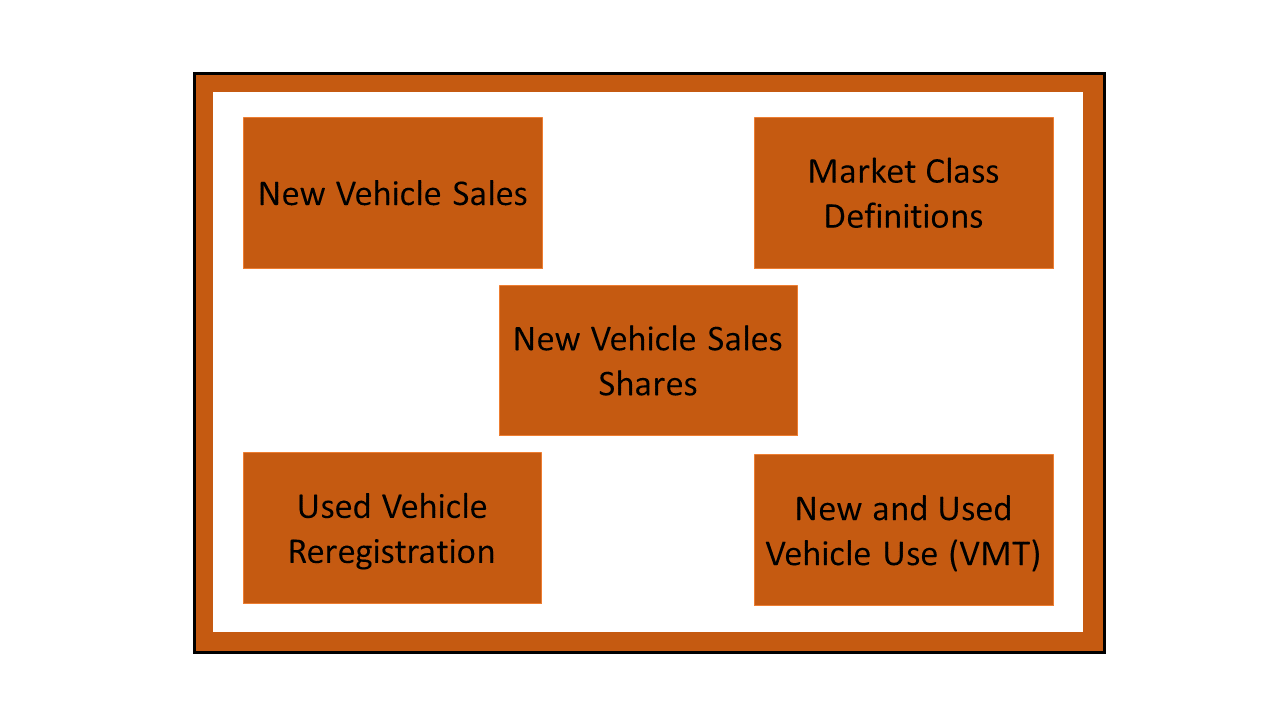
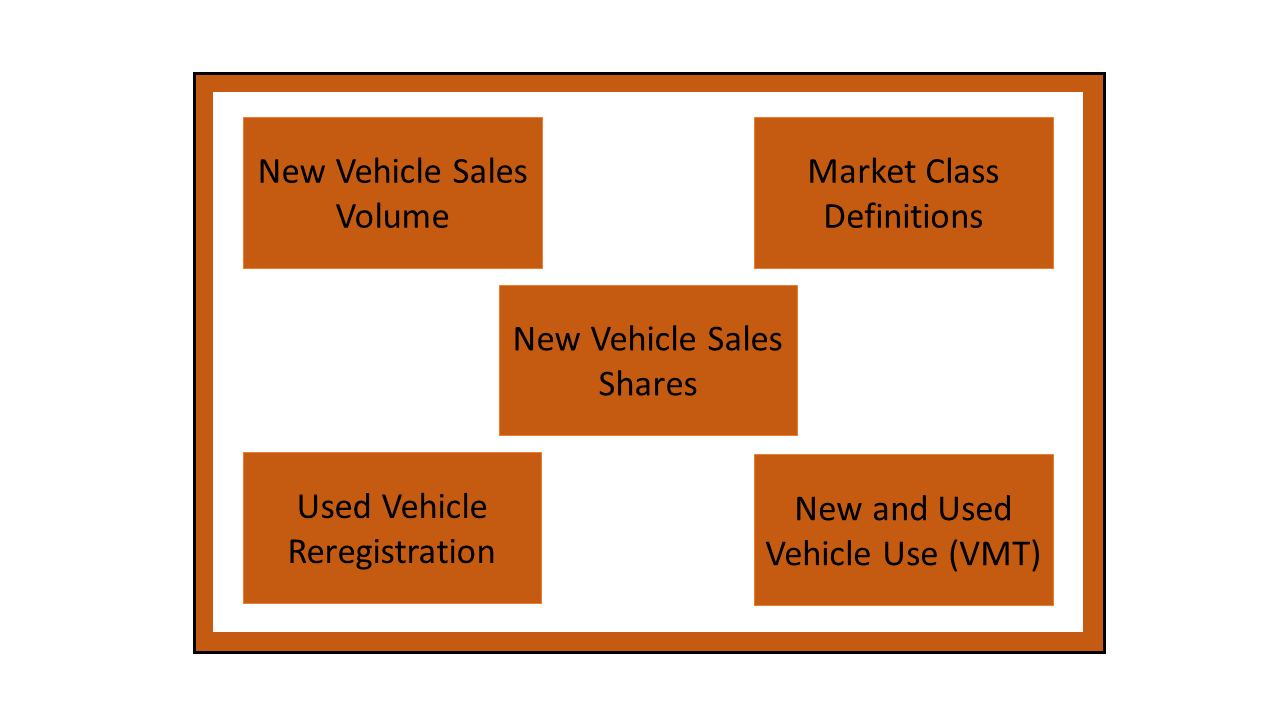
updates to market class documentation

Changed region(s): [[0.1875, 0.2139, 0.4062, 0.3361]]

diff --git a/doc/source/archalgo.rst b/doc/source/archalgo.rst
@@ -303,6 +303,20 @@ The Consumer Module’s purpose is to estimate how light duty vehicle ownership 
 
 Each of these five elements represents a user-definable submodule within the Consumer Module code. The code within each submodule may be updated by a user, or the submodule may be replaced with an alternative submodule. When a user updates or replaces a submodule, they must ensure that the submodule retains consistency with the other submodules within the Consumer Module, as well as with the rest of OMEGA. For example, if the market class submodule is changed from the demo analysis version, the sales share submodule must be updated as well.
 
+.. admonition:: Demo example: Consumer Module user-definable submodules
+
+    The user definable submodules in the demo analysis version of OMEGA are listed in the table below.
+
+    .. csv-table::
+        :widths: auto
+
+        **Element**, **Submodule**
+        Market class definitions, market_classes.py
+        New vehicle sales volume, sales_volume.py
+        New vehicle sales shares, sales_share.py
+        Used vehicle reregistration, reregistration_fixed_by_age.py
+        New and used vehicle use, annual_vmt_fixed_by_age.py
+
 The Consumer Module works in two phases: first, an iterative new vehicle phase, followed by a non-iterative stock and use phase. During the first phase, the Consumer Module and Producer Module iterate to achieve convergence on the estimates of new vehicles produced and demanded that meet the standards set in the Policy Module. The Producer Module sends a set of candidate vehicles, including their prices and attributes, to the Consumer Module to consider. The Consumer Module uses that set of candidate vehicles to estimate total new vehicles demanded and the shares of those new vehicles in the specified market classes, which are passed back to the Producer Module. If the estimates do not converge, a new set of candidate vehicles is sent to teh Consumer Module for consideration. Once convergence between the Producer and Consumer Module is achieved, the set of candidate vehicles are no longer considered candidates for consideration, but are the estimated new vehicle fleet, and the Consumer Module enters the second phase. In this phase, total vehicle stock (new and used vehicles and their attributes) and use (VMT) are estimated.
 
 **Inputs to the Consumer Module**
@@ -318,6 +332,10 @@ During the iterative first phase, the Consumer Module considers vehicle prices a
 Users can define market classes; in doing so, the user must ensure that all other inputs and user-defined submodules (for example, with respect to stock and use estimation) within the Consumer Module are defined consistently. The designation of market classes can be used to reflect market heterogeneity in purchasing behavior or vehicle use based on specific vehicle attributes. In addition, the user can categorize market classes as 'responsive,' where the shares of total vehicles attributed to those market classes change in response to user-defined endogenous inputs (like relative costs), or 'nonresponsive,' where the shares of total vehicles attributed to those market classes do not change with the policy being analyzed.
 
 Market classes can be defined using vehicle attributes and inputs from the analysis context. In defining market classes, the user must ensure they are defined consistently with the modeling in the sales share submodule. For example, if the sales share submodule is defined as estimating shares of vehicles in a set of fuel type categories, those fuel type categories must be defined within the market class submodule.
+
+.. sidebar:: Independent market share assumption
+
+    The assumptions of independence in parent market class categories is consistent with the assumption of independence of irrelevant alternatives (IIA) commonly used in nested choice models, such as GCAM-USA.
 
 Before the Consumer Module can estimate sales and or shares responses, all vehicles must be categorized into their market classes. This categorization is defined as a series of nested market category levels. The user can define any number of market classes, or levels, as well as the hierarchy of the levels. In defining the hierarchy, it is important to note that OMEGA assumes that the sales share estimates within a parent category are independent of sales share estimates outside the parent category. This means that changing the available market classes outside the parent category will not change the sales share estimates within the parent category.
 
@@ -386,7 +404,7 @@ If a user adopts the demo analysis method of estimating sales volumes using an e
 
 **Sales shares**
 
-The new vehicles sold are categorized into the user-defined market classes using estimates of sales shares. As mentioned above, those market classes can be nonresponsive or responsive to the policy being analyzed. Nonresponsive vehicle shares do not change with updated candidate vehicle sets or across policy alternatives. Though not responsive to endogenous inputs, the nonresponsive sales shares do not have to be constant. For example, they may be provided as a set of values for different points in time if the shares are expected to change exogenously over time.
+The new vehicles sold are categorized into the user-defined market classes using estimates of sales shares. As mentioned above, those market classes can be nonresponsive or responsive to the policy being analyzed. Nonresponsive vehicle shares do not change with updated candidate vehicle sets or across policy alternatives. Though not responsive to endogenous inputs, the nonresponsive sales shares do not have to be constant. For example, they may be provided as a set of values for different points in time if the shares are expected to change exogenously over time. In addition, users can define sales shares to explicitly consider consumer heterogeneity by defining separate sales share estimates for different consumer groups. For example, sales share responses can differ between rural and urban consumers. If users identify heterogenous consumer groups with separate sales share responses, the analysis context must include the approproate inputs. For example, the proportion of the vehicle buying population in urban and rural areas for each year being analyzed within the model.
 
 .. admonition:: Demo example: Nonresponsive market share estimates
 
@@ -425,7 +443,13 @@ After convergence with respect to the sales and shares of new vehicles is achiev
 
 **Vehicle stock**
 
-To estimate vehicle stock, the model starts with an initial stock of vehicles. The initial stock of vehicles can be an exogenous input from the analysis context, or estimated within the Consumer Module as defined by the user. From there, a simple way to determine stock for each modeled calendar year is to add in the produced new vehicles for that year as described in Section 3.4.3, and estimate the reregistered fleet of vehicles from the total used fleet. The total used fleet in the initial analysis year includes all the vehicles from the initial stock. For each subsequent, modeled, year, the total used fleet is the set of initial stock remaining in the fleet, plus the remaining set of modeled vehicles that were added to the fleet from each previous modeled year.
+Figure XX below steps through the flow of how total vehicle stock is estimated in OMEGA. To estimated vehicle stock, the model starts with a base year stock of vehicles, which is an inputs from the analysis context. The base year is the last year actual observations of vehicle stock are available. From there, the produced new vehicles for the analysis start year are estimated, as described in Section 3.4.3. The analysis start year is the first year in which modeling is performed and immediately follows the base year. These vehicles are added to teh set of reregistered base year stock. This new fleet of vehicles, reregistered base year stock plus modeled vehicles from the analysis start year, becomes the total analysis start year stock. For each subsequent modeled (analysis) year, the total used fleet is the set of base year stock remaining, plus the remaining set of modeled vehicles that were added to the fleet from the initial analysis year to the current modeled, analysis, year.
+
+:numref:`mo_label_stockflow` Vehicle stock estimation flow diagram
+
+.. _mo_label_stockflow:
+        .. figure:: _static/al_figures/stock_flow.png
+            :align: center
 
 The method of estimating the reregistered fleet is in a user-defined used vehicle reregistration submodule. This method can make use of a static schedule, for example, where a vehicle's age is the only determinant of the proportion of vehicles remaining in the fleet over time, or depend on other vehicle attributes, like VMT. If users update the reregistration submodule to follow a different prescribed static rate, or to allow interdependencies between the rate of reregistration and other vehicle attributes, they need to retain consistency between the reregistration submodule and other submodule, for example the submodules estimating new vehicle sales and total VMT.
 
